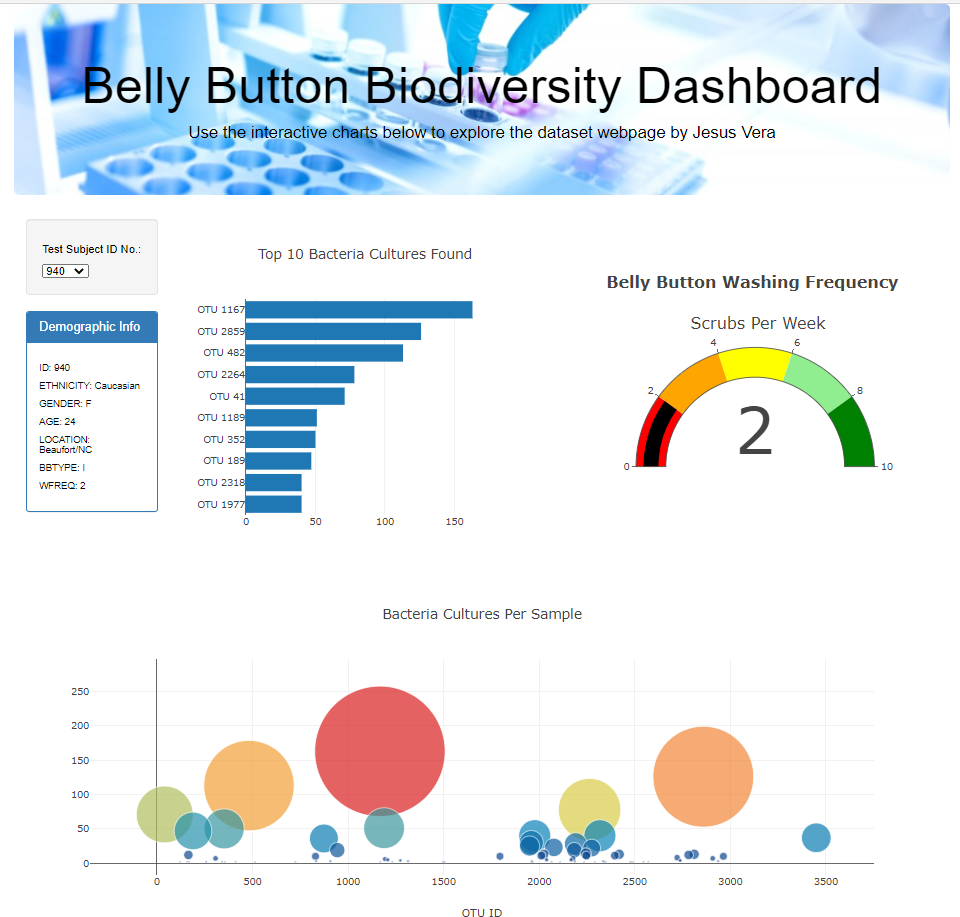
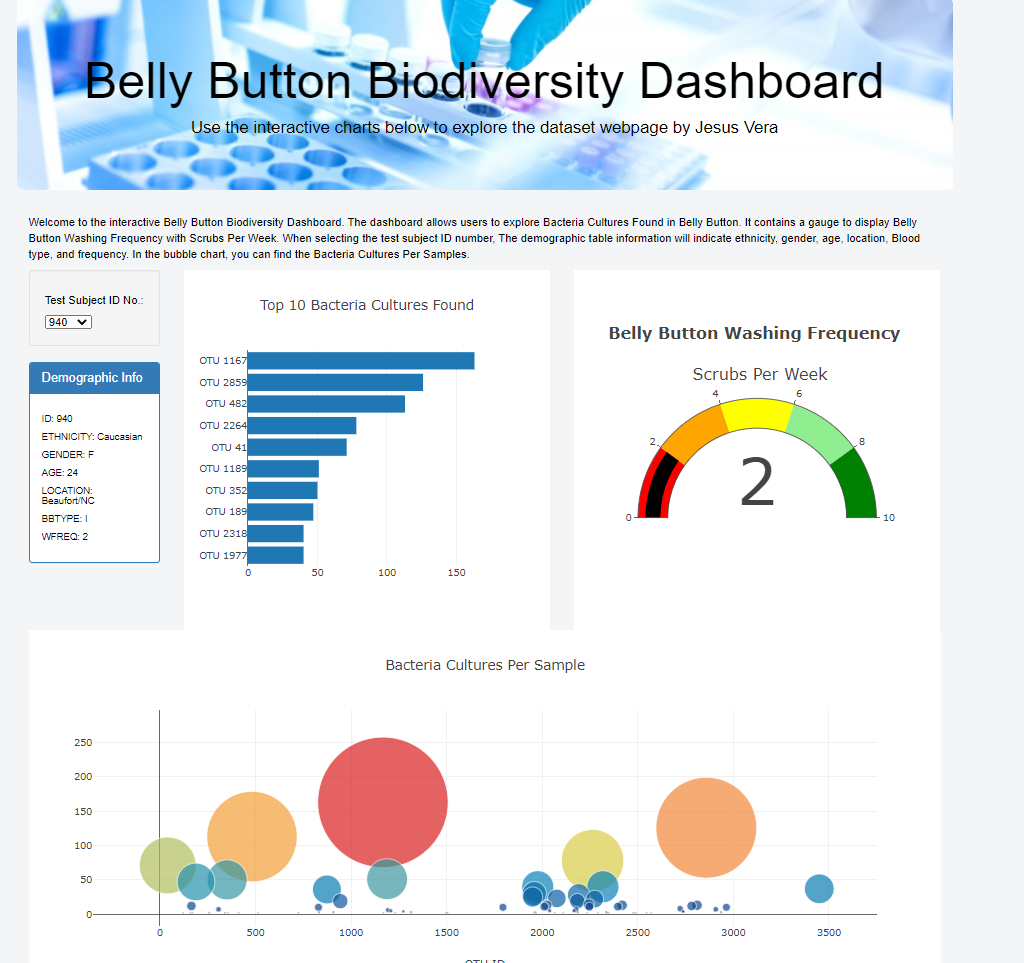
Challenge

diff --git a/index.html b/index.html
@@ -14,7 +14,7 @@
   href="static/css/style.css">
 </head>
 
-<body>
+<body style="background-color:rgb(211, 226, 240);">
 
   <div class="container">
     <div class="row">
@@ -24,7 +24,12 @@
                           webpage by Jesus Vera</p>
       </div>
     </div>
+   
+    <p>Welcome to the interactive Belly Button Biodiversity Dashboard. The dashboard allows users to explore Bacteria Cultures Found in Belly Button. 
+      It contains a gauge to display Belly Button Washing Frequency with Scrubs Per Week. When selecting the test subject ID number, The demographic table information will indicate ethnicity, gender, age, location, Blood type, and frequency. 
+      In the bubble chart, you can find the Bacteria Cultures Per Samples.
     
+  
     <div class="row">
       <div class="col-md-2">
           <div class="well">

diff --git a/README.md b/README.md
@@ -40,6 +40,7 @@ Deliverable 3: Create a Gauge Chart
 In this chapter, I learned about the following topics:  
 Using a local server to test my project. Displaying my project onto a public server using GitHub Pages. Sharing my project with the world. I learned how to make attractive charts for users and how to make them interactive. I also learned how to filter the data and display information specific to each volunteer. 
 
+I was able to create a Welcome to the interactive Belly Button Biodiversity Dashboard. The dashboard allows users to explore Bacteria Cultures Found in Belly Button. It contains a gauge to display Belly Button Washing Frequency with Scrubs Per Week. When selecting the test subject ID number, The demographic table information will indicate ethnicity, gender, age, location, Blood type, and frequency. In the bubble chart, you can find the Bacteria Cultures Per Samples.
 Deliverable 4: Customize the Dashboard
 
 ![](Resources/dashbord1.PNG)
